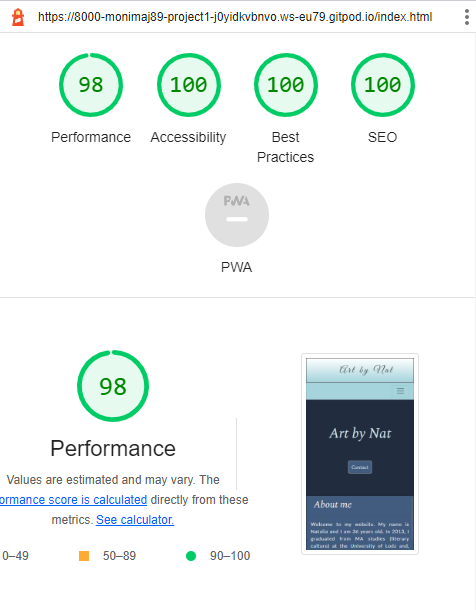
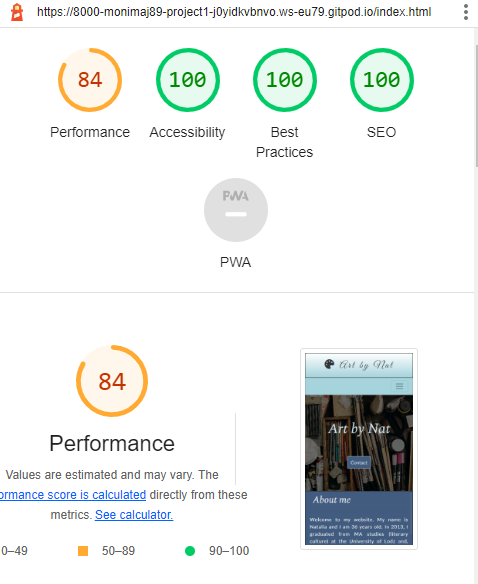
Added Contents to the readme, beautified code on every page

diff --git a/index.html b/index.html
@@ -50,7 +50,6 @@
             </div>
         </header>
         <!-- /Header - Nav -->
-
         <!-- Hero Image -->
         <main>
             <section class="container-fluid">
@@ -67,15 +66,13 @@
                 </div>
             </section>
             <!-- Hero Image -->
-
-
             <!-- About -  secQuote -->
             <div class="row row-main container-fluid">
                 <div class="col-12 col-sm-6 col-md-5 about-bg border-lg">
                     <h2 class="header-art">About me</h2>
                     <hr>
                     <p>Welcome to my website. My name is Natalia and I am 36 years old.
-                        In 2013, I graduated from MA studies (literary culture) at the University of Lodz and, although
+                        In 2013, I graduated from MA studies (literary culture) at the University of Lodz (Poland) and, although
                         I
                         love books, cats and painting will always come first and second.
                         I have been painting since I was a child, but my adventure with cats began a few years ago,
@@ -96,7 +93,6 @@
                 <div class="col-12 col-sm-6 col-md-5 secquote-bg border-lg">
                 </div>
                 <!--  /About - Quote -->
-
                 <!-- Quote - Image -->
                 <div class="col-12 col-sm-6 col-md-5 quote-bg border-lg">
                     <div class="quote">
@@ -106,7 +102,6 @@
                     </div>
                 </div>
                 <!-- /Quote - Image -->
-
                 <!-- Slideshow -->
                 <div class="col-12 col-sm-6 col-md-5 slide border-lg">
                     <div id="carouselExampleIndicators" class="carousel" data-ride="carousel">
@@ -150,7 +145,7 @@
             </div>
         </main>
     </div>
-    <!-- Footer -->
+<!-- Footer -->
     <footer class="container-fluid footer">
         <div class="row no-gutters">
             <div class="col-12">
@@ -177,10 +172,10 @@
             </div>
         </div>
     </footer>
-    <!-- /Footer -->
-    <!-- Font Awesome icon -->
+<!-- /Footer -->
+<!-- Font Awesome icon -->
     <script src="https://kit.fontawesome.com/baba64def8.js" crossorigin="anonymous"></script>
-    <!-- Bootstrap JS (for hamburger menu) -->
+<!-- Bootstrap JS (for hamburger menu) -->
     <script src="https://code.jquery.com/jquery-3.5.1.slim.min.js"
         integrity="sha384-DfXdz2htPH0lsSSs5nCTpuj/zy4C+OGpamoFVy38MVBnE+IbbVYUew+OrCXaRkfj" crossorigin="anonymous">
     </script>

diff --git a/contact.html b/contact.html
@@ -22,7 +22,7 @@
 </head>
 
 <body>
-     <!-- div=content keeps footer on the bottom of the page -->
+<!-- div=content keeps footer on the bottom of the page -->
     <div class="content">
         <header class="container-fluid">
             <div class="row no-gutters">
@@ -76,7 +76,7 @@
             </div>
         </main>
     </div>
-    <!-- Footer -->
+<!-- Footer -->
     <footer class="container-fluid footer">
         <div class="row no-gutters">
             <div class="col-12">
@@ -103,10 +103,10 @@
             </div>
         </div>
     </footer>
-    <!-- /Footer -->
-    <!-- Font Awesome icon -->
+<!-- /Footer -->
+<!-- Font Awesome icon -->
     <script src="https://kit.fontawesome.com/baba64def8.js" crossorigin="anonymous"></script>
-    <!-- Bootstrap JS (for hamburger menu) -->
+<!-- Bootstrap JS (for hamburger menu) -->
     <script src="https://code.jquery.com/jquery-3.5.1.slim.min.js"
         integrity="sha384-DfXdz2htPH0lsSSs5nCTpuj/zy4C+OGpamoFVy38MVBnE+IbbVYUew+OrCXaRkfj" crossorigin="anonymous">
     </script>

diff --git a/thankyou.html b/thankyou.html
@@ -21,7 +21,7 @@
 </head>
 
 <body>
-     <!-- div=content keeps footer on the bottom of the page -->
+<!-- div=content keeps footer on the bottom of the page -->
     <div class="content">
         <header class="container-fluid">
             <div class="row no-gutters">
@@ -39,6 +39,7 @@
             </div>
         </main>
     </div>
+<!-- Footer -->
     <footer class="container-fluid footer">
         <div class="row no-gutters">
             <div class="col-12">
@@ -65,6 +66,7 @@
             </div>
         </div>
     </footer>
+<!-- /Footer -->
     <script src="https://code.jquery.com/jquery-3.5.1.slim.min.js"
         integrity="sha384-DfXdz2htPH0lsSSs5nCTpuj/zy4C+OGpamoFVy38MVBnE+IbbVYUew+OrCXaRkfj" crossorigin="anonymous">
     </script>

diff --git a/gallery.html b/gallery.html
@@ -21,7 +21,7 @@
 
 </head>
 
-<body class="gall-bg">
+<body>
     <!-- div=content keeps footer on the bottom of the page -->
     <div class="content">
         <header class="container-fluid">
@@ -89,6 +89,7 @@
             </div>
         </div>
     </div>
+    <!-- Footer -->
     <footer class="container-fluid footer">
         <div class="row no-gutters">
             <div class="col-12">
@@ -114,8 +115,8 @@
                 </ul>
             </div>
         </div>
-
     </footer>
+    <!-- /Footer -->
     <!-- Font Awesome icon -->
     <script src="https://kit.fontawesome.com/baba64def8.js" crossorigin="anonymous"></script>
     <!-- Bootstrap JS (for hamburger menu) -->

diff --git a/assets/css/style.css b/assets/css/style.css
@@ -56,11 +56,12 @@ a:hover {
 
 .img-container {
     background: url("../images/paint.webp") no-repeat center center;
-    height: 50vh;
     -webkit-background-size: cover;
     -moz-background-size: cover;
     -o-background-size: cover;
     background-size: cover;
+    height: 50vh;
+    width: 100%;
     display: flex;
     align-items: center;
     justify-content: center;

diff --git a/README.md b/README.md
@@ -11,6 +11,44 @@ The website is fully responsive and was designed using HTML, CSS and User Centri
 ![Website mock-up](assets/images/readme-img/mockup.webp)
 
 ***
+# Contents
+
+* [User Experience (UX)](#user-experience-ux)
+    * [Project Goals](#project-goals)
+        * [User Goals](#user-goals)
+        * [Site Owner Goals](#site-owner-goals)
+        * [User Expectactions](#user-expectactions)
+    * [User Stories](#user-stories) 
+        * [As i first time user](#as-a-first-time-user)
+        * [As a returning user](#as-a-returning-user)
+        * [As a site owner](#as-a-site-owner)
+* [Design](#design)
+    * [Colour](#colour)
+    * [Typography](#typography)
+    * [Icons and Images](#icons-and-images)
+    * [Wireframes](#wireframes)
+* [Features](#features)
+    * [Favivon](#favicon)
+    * [Header](#header)
+    * [Navigation bar](#navigation-bar)
+    * [Hero Image](#hero-image)
+    * [About me & quote section](#about-me--quote-section)
+    * [A carousel & quote section](#a-carousel--quote-section)
+    * [Footer](#footer)
+    * [Gallery Page](#gallery-page)
+    * [Contact Page](#contact-page)
+* [Technologies](#technologies-used)
+* [Testing](#testing)
+    * [Validator Testing](#validator-testing)
+        * [HTML](#html)
+        * [CSS](#css)
+    * [Wave Testing](#wave-testing)
+    * [Lighthouse Testing](#lighthouse-testing)
+    * [User Testing](#user-testing)
+* [Bugs](#bugs)
+* [Deployment](#deployment)
+* [Credits](#credits)
+
 # User Experience (UX)
 ## Project Goals
 ### User Goals:
@@ -182,7 +220,7 @@ Wireframes were created at the beginning of the design process using [Balsamiq](
     * [Cloud Convert](https://cloudconvert.com/) - used to convert images into webp.
     * [Favicon](https://favicon.io/) - used for a browser tab icon.
     * [Balsamiq](https://balsamiq.com/wireframes/desktop/) - used to create wireframes.
-    * [Mockup Generator](https://techsini.com/multi-mockup/) - used for create mockup image.
+    * [Mockup Generator](https://techsini.com/multi-mockup/) - used to create mockup image.
   
 # Testing
 ## Validator Testing
@@ -195,7 +233,7 @@ It was fixed by changing section element to div element.
   * [Contact Page](assets/images/readme-img/contactcheck.PNG)
   * [Thank you Page](assets/images/readme-img/thankyoucheck.PNG)
 ### CSS
-* [CSS Validator](https://jigsaw.w3.org/css-validator/) were used to test the CSS, also shows no errors.
+  * [CSS Validator](https://jigsaw.w3.org/css-validator/) were used to test the CSS, and shows no errors.
   * [CSS Check](assets/images/readme-img/csscheck.PNG)
 
 ## Wave Testing
@@ -215,10 +253,17 @@ It was fixed by changing section element to div element.
 
 ## Lighthouse Testing
 ### Lighthouse testing was performed using [Google Chrome Lighthouse](https://chrome.google.com/webstore/detail/lighthouse/blipmdconlkpinefehnmjammfjpmpbjk) extension.
-* [Home Page](assets/images/readme-img/homeperf.PNG)
-* [Gallery Page](assets/images/readme-img/galleryperf.PNG)
-* [Contact Page](assets/images/readme-img/contactperf.PNG)
-* [Thank you Page](assets/images/readme-img/thankyouperf.PNG),
+* Desktop
+  * [Home Page](assets/images/readme-img/hemodes.PNG)
+  * [Gallery Page](assets/images/readme-img/gallerydes.PNG)
+  * [Contact Page](assets/images/readme-img/contactdes.PNG)
+  * [Thank you Page](assets/images/readme-img/thankyoudes.PNG)
+* Mobile
+  * [Home Page](assets/images/readme-img/homeperf.PNG)
+  * [Gallery Page](assets/images/readme-img/galleryperf.PNG)
+  * [Contact Page](assets/images/readme-img/contactperf.PNG)
+  * [Thank you Page](assets/images/readme-img/thankyouperf.PNG)
+
 ### Improvements to the Lighthouse score:
 
 * Converted all images into webp format and compressed sizes to speed up loading times.
@@ -238,7 +283,7 @@ It was fixed by changing section element to div element.
 # Bugs
 | Bugs       | Solved?   | How? |
 |------------|-----------|------|
-| 1. Footer on contact page  | Yes | The page did not have enough content, so the footer was displayed in the middle of the page. I found solution on the [CSS Tricks Page](https://css-tricks.com/couple-takes-sticky-footer/). |
+| 1. Footer on the contact page  | Yes | The page did not have enough content, so the footer was displayed in the middle of the page. I found solution on the [CSS Tricks Page](https://css-tricks.com/couple-takes-sticky-footer/). |
 | 2. Carousel images on the desktops were too stretched and didn't look good. | Yes    |   I've asked for help on the [stack overflow](https://stackoverflow.com/) and was advised to add object-fit: contain property to my CSS, which centered images and make them look better. |
 | 3. Images not displaying on my home page | Yes | I've changed absolute file path to the relative path. |
 | 4. On the landscape view, the text on the quote overflows the image. [See here](assets/images/readme-img/bug.PNG) | Yes | I've added position: relative to the parent, and absolute to the child.
@@ -269,7 +314,7 @@ It was fixed by changing section element to div element.
 1. Code Institute - It was a pure pleasure to learn HTML, CSS, use of the Bootstrap, and Gitpod with Code Institute. Participating in the course allows me to develop my programming skills. The idea of the hamburger menu was borrowe from Bootstrap mini project: Whiskey Drop.
 2. Gareth McGirr - my menthor, who were always helpful.
 3. My sister, Natalia Michalska, who gave me idea for this page, provided gallery images and "About me" text.
-4. Slack community
+4. Slack community - Their help was invaluable.
 5. Images on the home page were downloaded from [Pexel](https://www.pexels.com/)
 * [Hero image by Cottonbro studio ](https://www.pexels.com/photo/assorted-color-paint-brush-set-3777876/)
 * [Quote background by Suzy Hazelwood](https://www.pexels.com/photo/blue-and-red-galaxy-artwork-1629236/)
